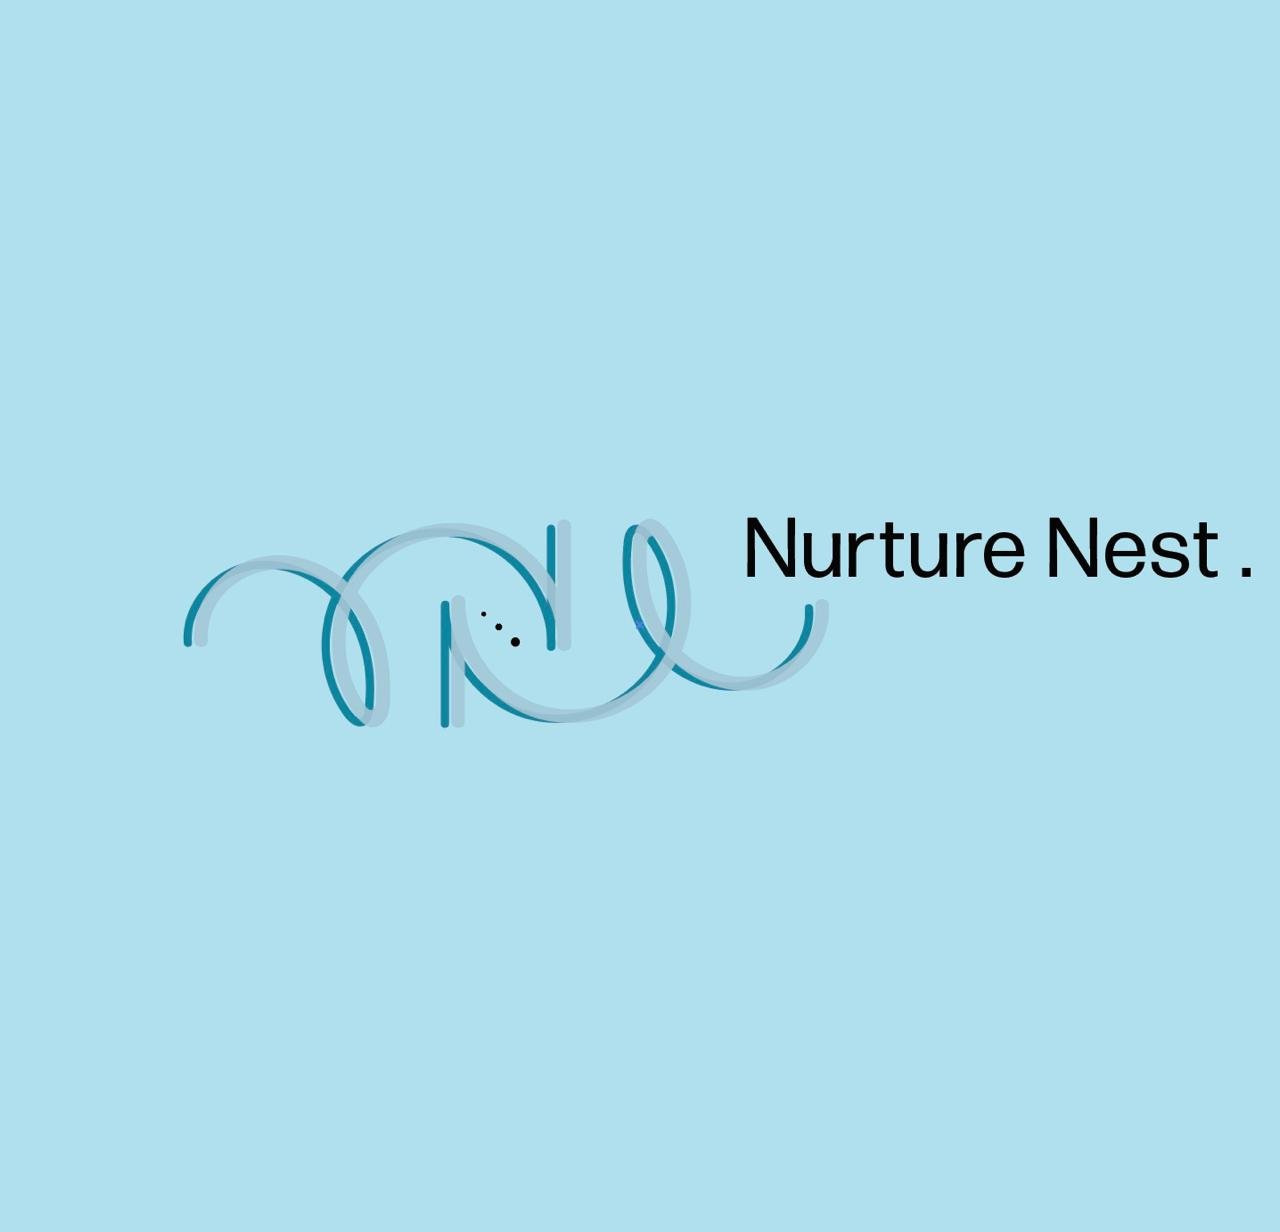
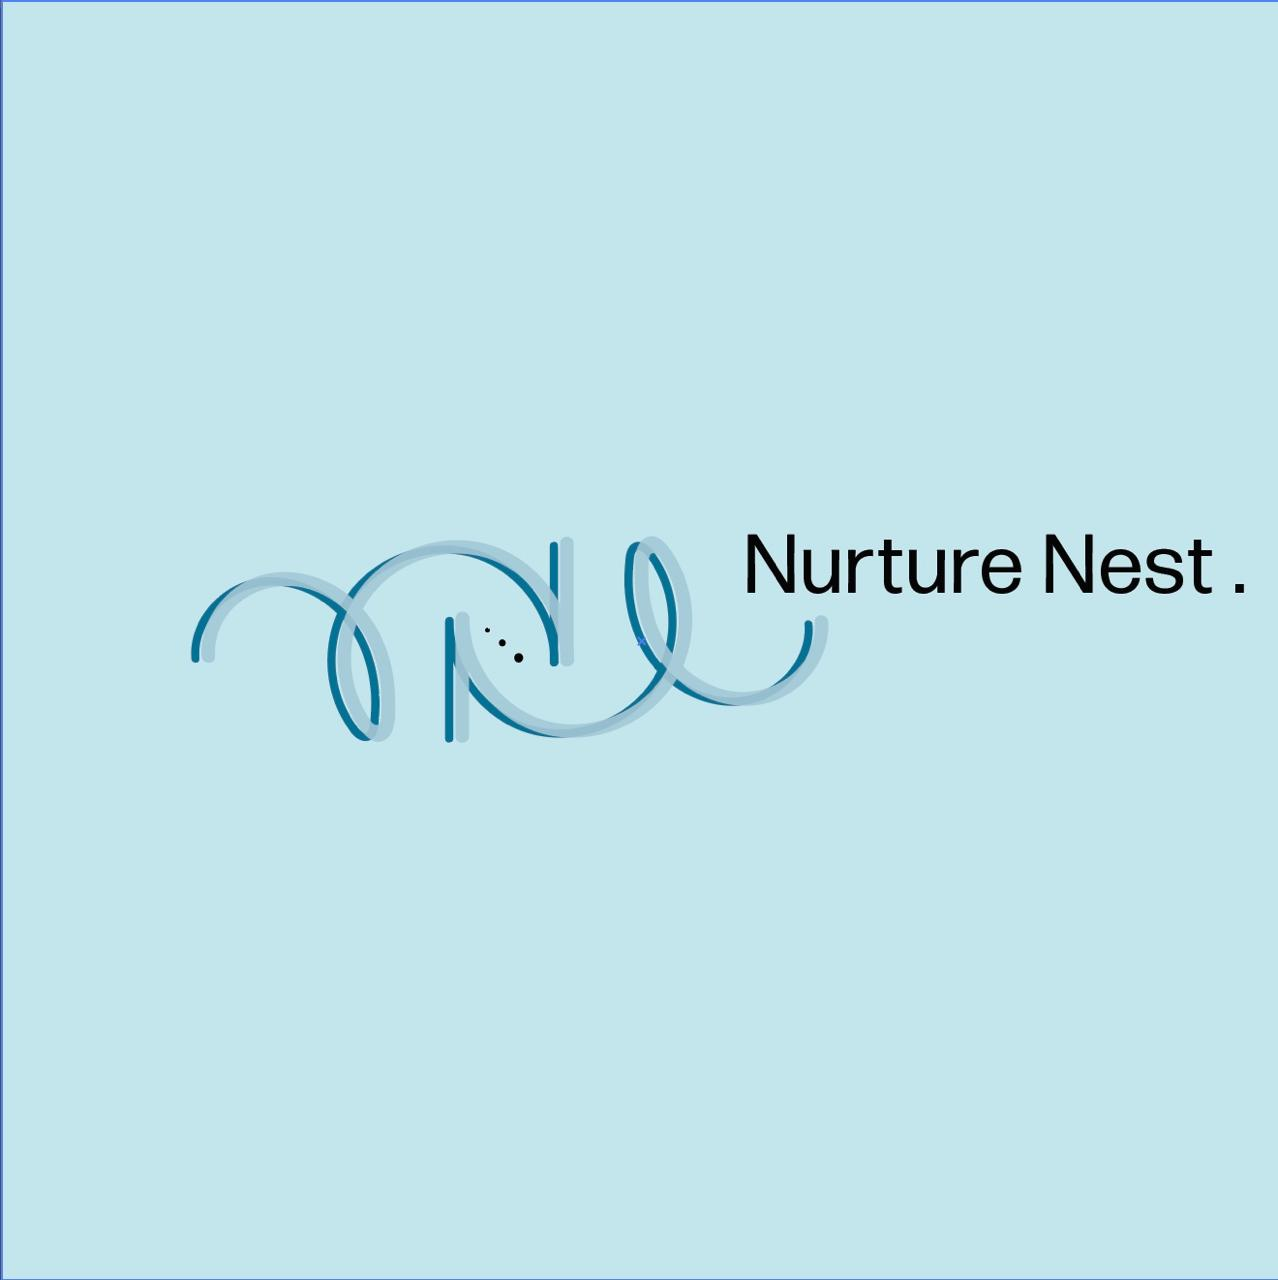
Updated UI color changes

diff --git a/nn/client/src/components/styles/home.css b/nn/client/src/components/styles/home.css
@@ -4,7 +4,7 @@
 }
 
 body {
-  background-color: #007290 !important;
+  background-color: #c5e3ea !important;
 }
 
 .container {
@@ -18,12 +18,12 @@ body {
   margin-top: -45em; /* Adjust as needed */
 }
 
-/* blue:#007290
+/* blue:#C5E3EA
   orange: #fbb03b
   light orange: #f7a11e
   brown: #42210b */
 section#gps {
-  background-color: #007290 !important;
+  background-color: #c5e3ea !important;
   position: absolute;
 }
 
@@ -35,19 +35,19 @@ section#gps {
   justify-content: center;
   align-items: center; /* Center the map vertically */
   border-radius: 65px;
-  border: solid 5px #007290 !important;
+  border: solid 5px #c5e3ea !important;
 }
 
 .mapboxgl-map {
   border-radius: 65px;
-  border: solid 5px #007290 !important;
+  border: solid 5px #c5e3ea !important;
 }
 
 .mapboxgl-marker {
   border-radius: 50%;
   width: 20px;
   height: 20px;
-  background-color: #007290;
+  background-color: #c5e3ea;
   border: 2px solid #fff;
 }
 
@@ -75,17 +75,17 @@ section#gps {
 
 #searchInput {
   height: 2em;
-  background-color: #1c92af !important;
+  background-color: #53aec6 !important;
   color: white;
 }
 
 ::placeholder {
-  color: #fbb03b;
+  color: #00698f;
 }
 
 .search-bar {
   padding: 2em 0;
-  background-color: #007290 !important;
+  background-color: #c5e3ea !important;
   display: flex;
   justify-content: center;
   align-items: center;
@@ -95,8 +95,7 @@ section#gps {
 
 .search-bar input {
   padding: 8px;
-  border: 4px solid #007290 !important;
-  background-color: #007290 !important;
+  border: 4px solid #53aec6 !important;
   border-radius: 10px;
   margin-right: 1em;
   height: 10em;
@@ -105,8 +104,8 @@ section#gps {
 
 .search-bar button {
   margin-top: -10px;
-  background-color: #fbb03b !important;
-  color: #42210b !important;
+  background-color: #19849e !important;
+  color: white !important;
   border: none;
   border-radius: 10px;
   width: 10em;
@@ -117,7 +116,7 @@ section#gps {
 }
 
 #searchButton {
-  background-color: #007290;
+  background-color: #c5e3ea;
   color: white;
   padding: 10px 20px;
   border: none;
@@ -200,7 +199,7 @@ section#gps {
   top: 2em;
   right: 3em;
   z-index: 401; /* Increase the z-index to make the button appear on top */
-  background-color: #007290 !important;
+  background-color: #c5e3ea !important;
   color: #fbb03b !important;
   padding: 0.5em 1em;
   border: solid 2px #3db6cb !important;
@@ -209,7 +208,7 @@ section#gps {
 }
 
 section#don {
-  background-color: #fbb03b !important;
+  background-color: #53aec6 !important;
   border-radius: 95px;
   height: 100em;
   display: flex;
@@ -286,7 +285,7 @@ ul {
   font-size: 2.5em;
   padding-top: 2em;
   flex-direction: column;
-  color: #007290 !important;
+  color: #c5e3ea !important;
   text-decoration: none;
   list-style-type: none;
 }
@@ -300,7 +299,7 @@ ul {
 }
 
 p#mon {
-  color: #007290 !important;
+  color: #c5e3ea !important;
   width: 20em;
   padding-top: 1em;
   margin-left: 5em;
@@ -328,7 +327,7 @@ h1#edu,
 #stath,
 #hygh,
 #medh {
-  color: #007290 !important;
+  color: #c5e3ea !important;
   background-color: wheat !important;
   font-family: Arial, Helvetica, sans-serif;
   text-align: center;
@@ -336,7 +335,7 @@ h1#edu,
 }
 
 footer {
-  background-color: #007290 !important;
+  background-color: #c5e3ea !important;
   height: 12em;
   width: 100%;
   position: absolute;

diff --git a/nn/client/src/components/Header.jsx b/nn/client/src/components/Header.jsx
@@ -1,5 +1,5 @@
 import React, { useEffect, useState } from "react";
-import nn3 from '../assets/images/nn3.png';
+import nn3 from '../assets/images/small_nn1.jpg';
 import "./styles/header.css";
 
 export default function Header() {
@@ -24,7 +24,7 @@ export default function Header() {
         <div className={`header ${isMobile ? 'mobile-header' : ''} ${isLaptop ? 'laptop-header' : ''}`}>
             <div className="navbar" style={{ paddingLeft: isMobile ? "4em" : "" }}>
                 <div className="top_logo">
-                    <img id="toplogo" src={nn3} alt="NurtureNest Logo" style={{ backgroundColor: "#007092", width: isMobile ? "100%" : "20%", height: isMobile ? "100%" : "20%", marginTop: isMobile ? "2em" : "", padding: isMobile ? "1em 0" : "2em 0", marginLeft: isMobile ? "-9em" : "", position: isMobile ? "relative" : "", }} />
+                    <img id="toplogo" src={nn3} alt="NurtureNest Logo" style={{ backgroundColor: "#007092", width: isMobile ? "100%" : "20%", height: isMobile ? "100%" : "", marginTop: isMobile ? "2em" : "", padding: isMobile ? "1em 0" : "", marginLeft: isMobile ? "-9em" : "", position: isMobile ? "relative" : "", }} />
                 </div>
             </div>
         </div>

diff --git a/nn/client/src/components/Home.jsx b/nn/client/src/components/Home.jsx
@@ -472,7 +472,7 @@ const Home = () => {
       className={`Full ${isMobile ? "mobile" : ""} ${isLaptop ? "laptop" : ""}`}
     >
       {isMobile ? (
-        <div style={{ display: "flex", alignItems: "center", backgroundColor: "#007290", padding: "10px" }}>
+        <div style={{ display: "flex", alignItems: "center", backgroundColor: "#53AEC6", padding: "10px" }}>
           <button
             onClick={toggleSidebar}
             className="sidebar-icon"
@@ -493,8 +493,8 @@ const Home = () => {
           zIndex: isMobile ? "1001" : "",
           top: isMobile ? "0px" : "20px",
           right: isMobile ? "5px" : "40px",
-          backgroundColor: "orange",
-          color: isMobile ? "transparent" : "teal", // Hide text on mobile
+          backgroundColor: "#19849E",
+          color: isMobile ? "transparent" : "white", // Hide text on mobile
           border: "none",
           borderRadius: "5px",
           padding: isMobile ? "10px" : "10px 20px", // Adjust padding for icon-only on mobile

diff --git a/nn/client/src/components/Sidebar.jsx b/nn/client/src/components/Sidebar.jsx
@@ -35,10 +35,10 @@ const Sidebar = ({ isOpen, onClose }) => {
 
     return (
         <div className={`sidebar ${isOpen || !isMobile ? 'open' : ''}`}>
-            <div className="sidebar-header" style={{ backgroundColor: "#fbb03b" }}>
+            <div className="sidebar-header" style={{ backgroundColor: "#53AEC6" }}>
                 <i className="fa fa-bars" id="sidebar-toggle" style={{ color: '#007092', fontSize: "1.5em" }} onClick={onClose}></i>
             </div>
-            <div className="container" style={{ backgroundColor: "#fbb03b" }}>
+            <div className="container" style={{ backgroundColor: "#53AEC6" }}>
                 <div className={`sidebar-link ${activeLink === 'HOME' ? 'active' : ''}`}>
                     <i className="fa fa-house" style={{ color: '#007092', height: "2em", width: "2em" }}></i>
                     <Link className="side" to="/home" onClick={() => handleLinkClick('HOME')}>HOME</Link>

diff --git a/nn/client/src/components/DonationRequestForm.jsx b/nn/client/src/components/DonationRequestForm.jsx
@@ -89,7 +89,7 @@ const DonationRequestForm = () => {
     return (
         <div className="donation-form-container" style={{ textAlign: "center", marginTop: isMobile ? "" : "-5em", marginLeft: isMobile ? "-1em" : "" }}>
             <h2>Request a Donation - {currentCategory?.title || 'Food'}</h2> {/* Default to 'Food' if no category */}
-            <form onSubmit={handleSubmit} className='form' style={{ backgroundColor: "#04546d", marginTop: "-0.5px", padding: isMobile ? "" : "5em", width: isMobile ? "94%" : "", }}>
+            <form onSubmit={handleSubmit} className='form' style={{ backgroundColor: "#53AEC6", marginTop: "-0.5px", padding: isMobile ? "" : "5em", width: isMobile ? "94%" : "", }}>
                 <div style={{ display: "flex", flexDirection: "column", marginRight: "-1em" }}>
                     <label>
                         Quantity:

diff --git a/nn/client/src/components/Food.jsx b/nn/client/src/components/Food.jsx
@@ -507,7 +507,7 @@ const Food = () => {
             >
                 {/* Distance, duration, and place details will be displayed here */}
             </div>
-            <h1 style={{ color: "white", fontSize: isMobile ? "2.5em" : "5em", marginBottom: isMobile ? "2em" : "", paddingTop: isMobile ? "" : "0.5em", paddingBottom: isMobile ? "20px" : "0.5em", marginTop: isMobile ? "-8px" : "-1em" }}>FOOD DONATIONS</h1>
+            <h1 style={{ color: "#53AEC6", fontSize: isMobile ? "2.5em" : "5em", marginBottom: isMobile ? "2em" : "", paddingTop: isMobile ? "" : "0.5em", paddingBottom: isMobile ? "20px" : "0.5em", marginTop: isMobile ? "-8px" : "-1em" }}>FOOD DONATIONS</h1>
             <div
                 className={`search-container ${isMobile ? "mobile-search-container" : ""} ${isLaptop ? "laptop-search-container" : ""}`}
                 style={{

diff --git a/nn/client/src/components/styles/DonationRequestForm.css b/nn/client/src/components/styles/DonationRequestForm.css
@@ -1,6 +1,6 @@
 /* NurtureNest/nn/client/src/components/DonationRequestForm.css */
 .donation-form-container {
-  background-color: #007092; /* Adjust as needed */
+  background-color: #c5e3ea; /* Adjust as needed */
   padding: 20px;
   border-radius: 10px;
   color: white;
@@ -40,7 +40,7 @@
   justify-content: center;
   align-items: center;
   text-align: center;
-  background-color: #007092; /* Match container background for consistency */
+  background-color: #53aec6; /* Match container background for consistency */
   color: white;
   padding: 10px;
   border: none;

diff --git a/nn/client/src/components/styles/footer.css b/nn/client/src/components/styles/footer.css
@@ -1,5 +1,5 @@
 .footer {
-  background-color: #007092 !important;
+  background-color: #c5e3ea !important;
   width: 100%;
   position: absolute;
   z-index: 1;
@@ -22,6 +22,6 @@
   font-family: Arial, Helvetica, sans-serif;
   font-size: 1em;
   padding-left: 1.2em;
-  margin-top: 5sem;
-  color: white; /* Ensure text is visible against #007092 */
+  margin-top:2em;
+  color: #007290; /* Ensure text is visible against #007092 */
 }

diff --git a/nn/client/src/components/styles/compCard.css b/nn/client/src/components/styles/compCard.css
@@ -1,6 +1,6 @@
 .comp-card {
   height: 35em;
-  background-color: wheat; /* Match background color with FoodItem */
+  background-color: #ade2ed; /* Match background color with FoodItem */
   border-radius: 25%; /* Rounded corners similar to FoodItem */
   box-shadow: 0 4px 10px rgba(0, 0, 0, 0.1); /* Shadow effect */
   text-align: center; /* Center text */

diff --git a/nn/server/services/twilioService.js b/nn/server/services/twilioService.js
@@ -1,5 +1,5 @@
-const accountSid = "AC3a06733103752dc5dfa1d346c2134021";
-const authToken = "56357b823790badf3fb38b024c49649b";
+const accountSid = "AC4e481ffac6304159f0f653e097595c99";
+const authToken = "2cbfa198df12403557648babda0b463c";
 const client = require("twilio")(accountSid, authToken);
 
 const sendWhatsAppMessage = async (to, message) => {

diff --git a/nn/client/src/components/styles/header.css b/nn/client/src/components/styles/header.css
@@ -1,6 +1,6 @@
 .navbar,
 .top_logo {
-  background-color: #007290 !important;
+  background-color: #C5E3EA !important;
   width: 100%;
   display: flex;
   justify-content: center;

diff --git a/nn/client/src/components/styles/sidebar.css b/nn/client/src/components/styles/sidebar.css
@@ -4,7 +4,7 @@
   left: 0;
   width: 60px;
   height: 100%;
-  background: #fbb03b;
+  background: #53aec6;
   transition: width 0.3s ease;
   overflow: hidden;
   z-index: 1000;
